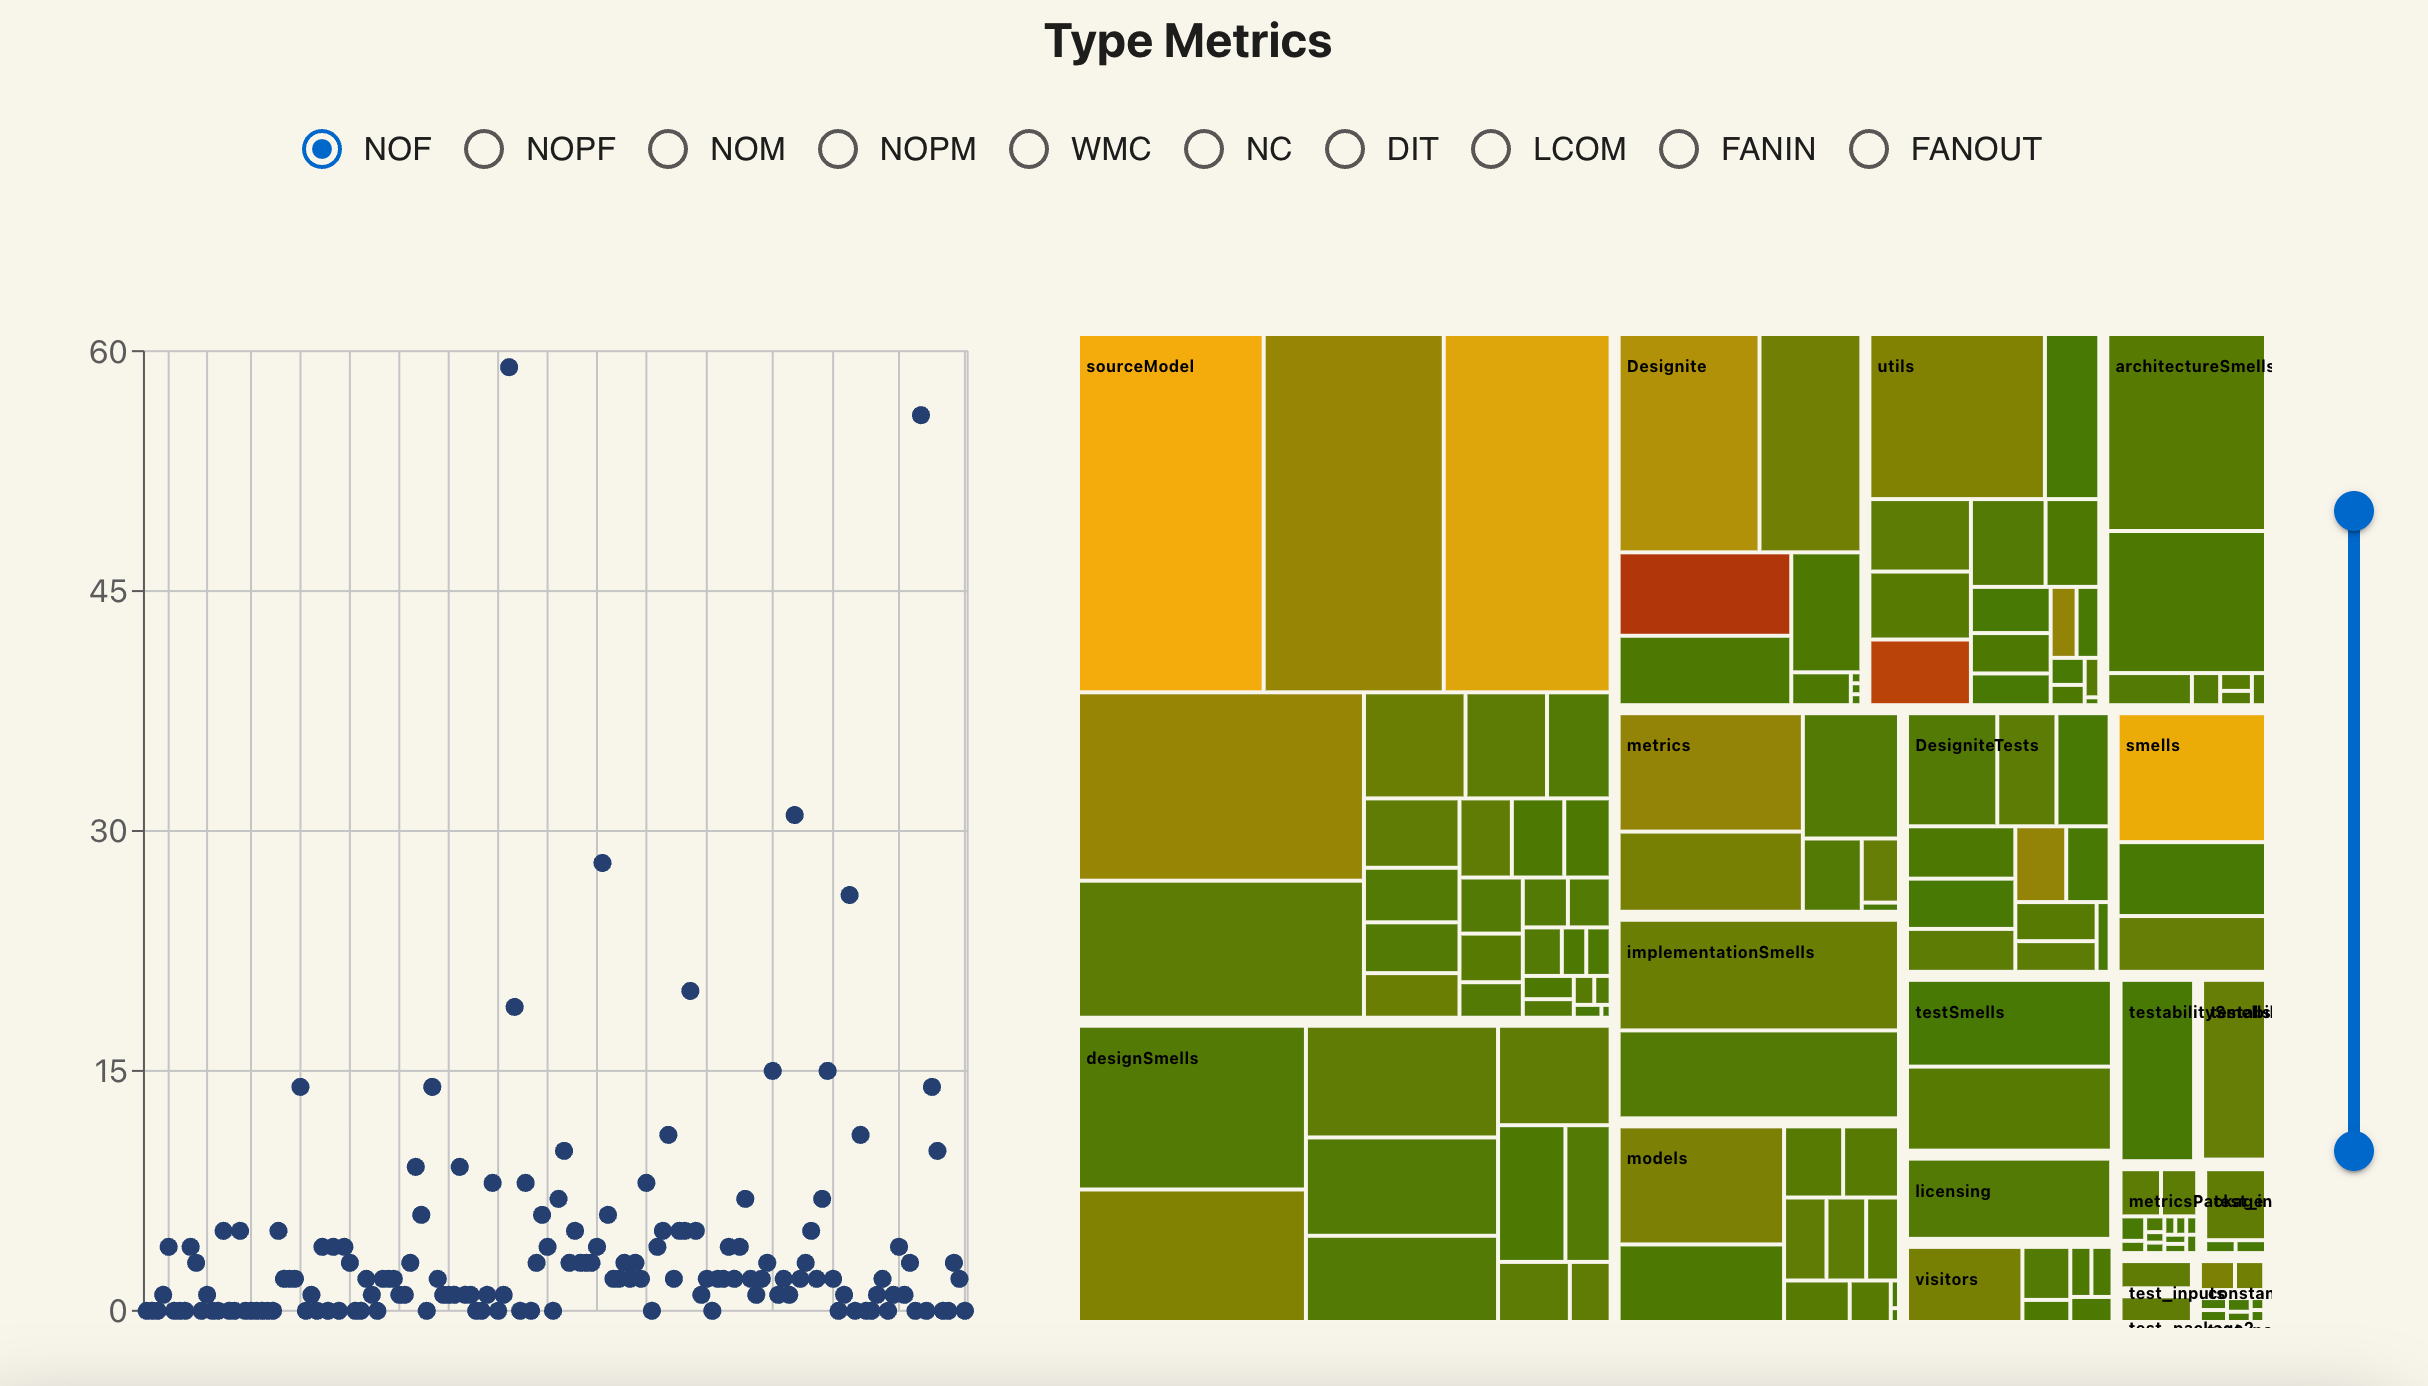
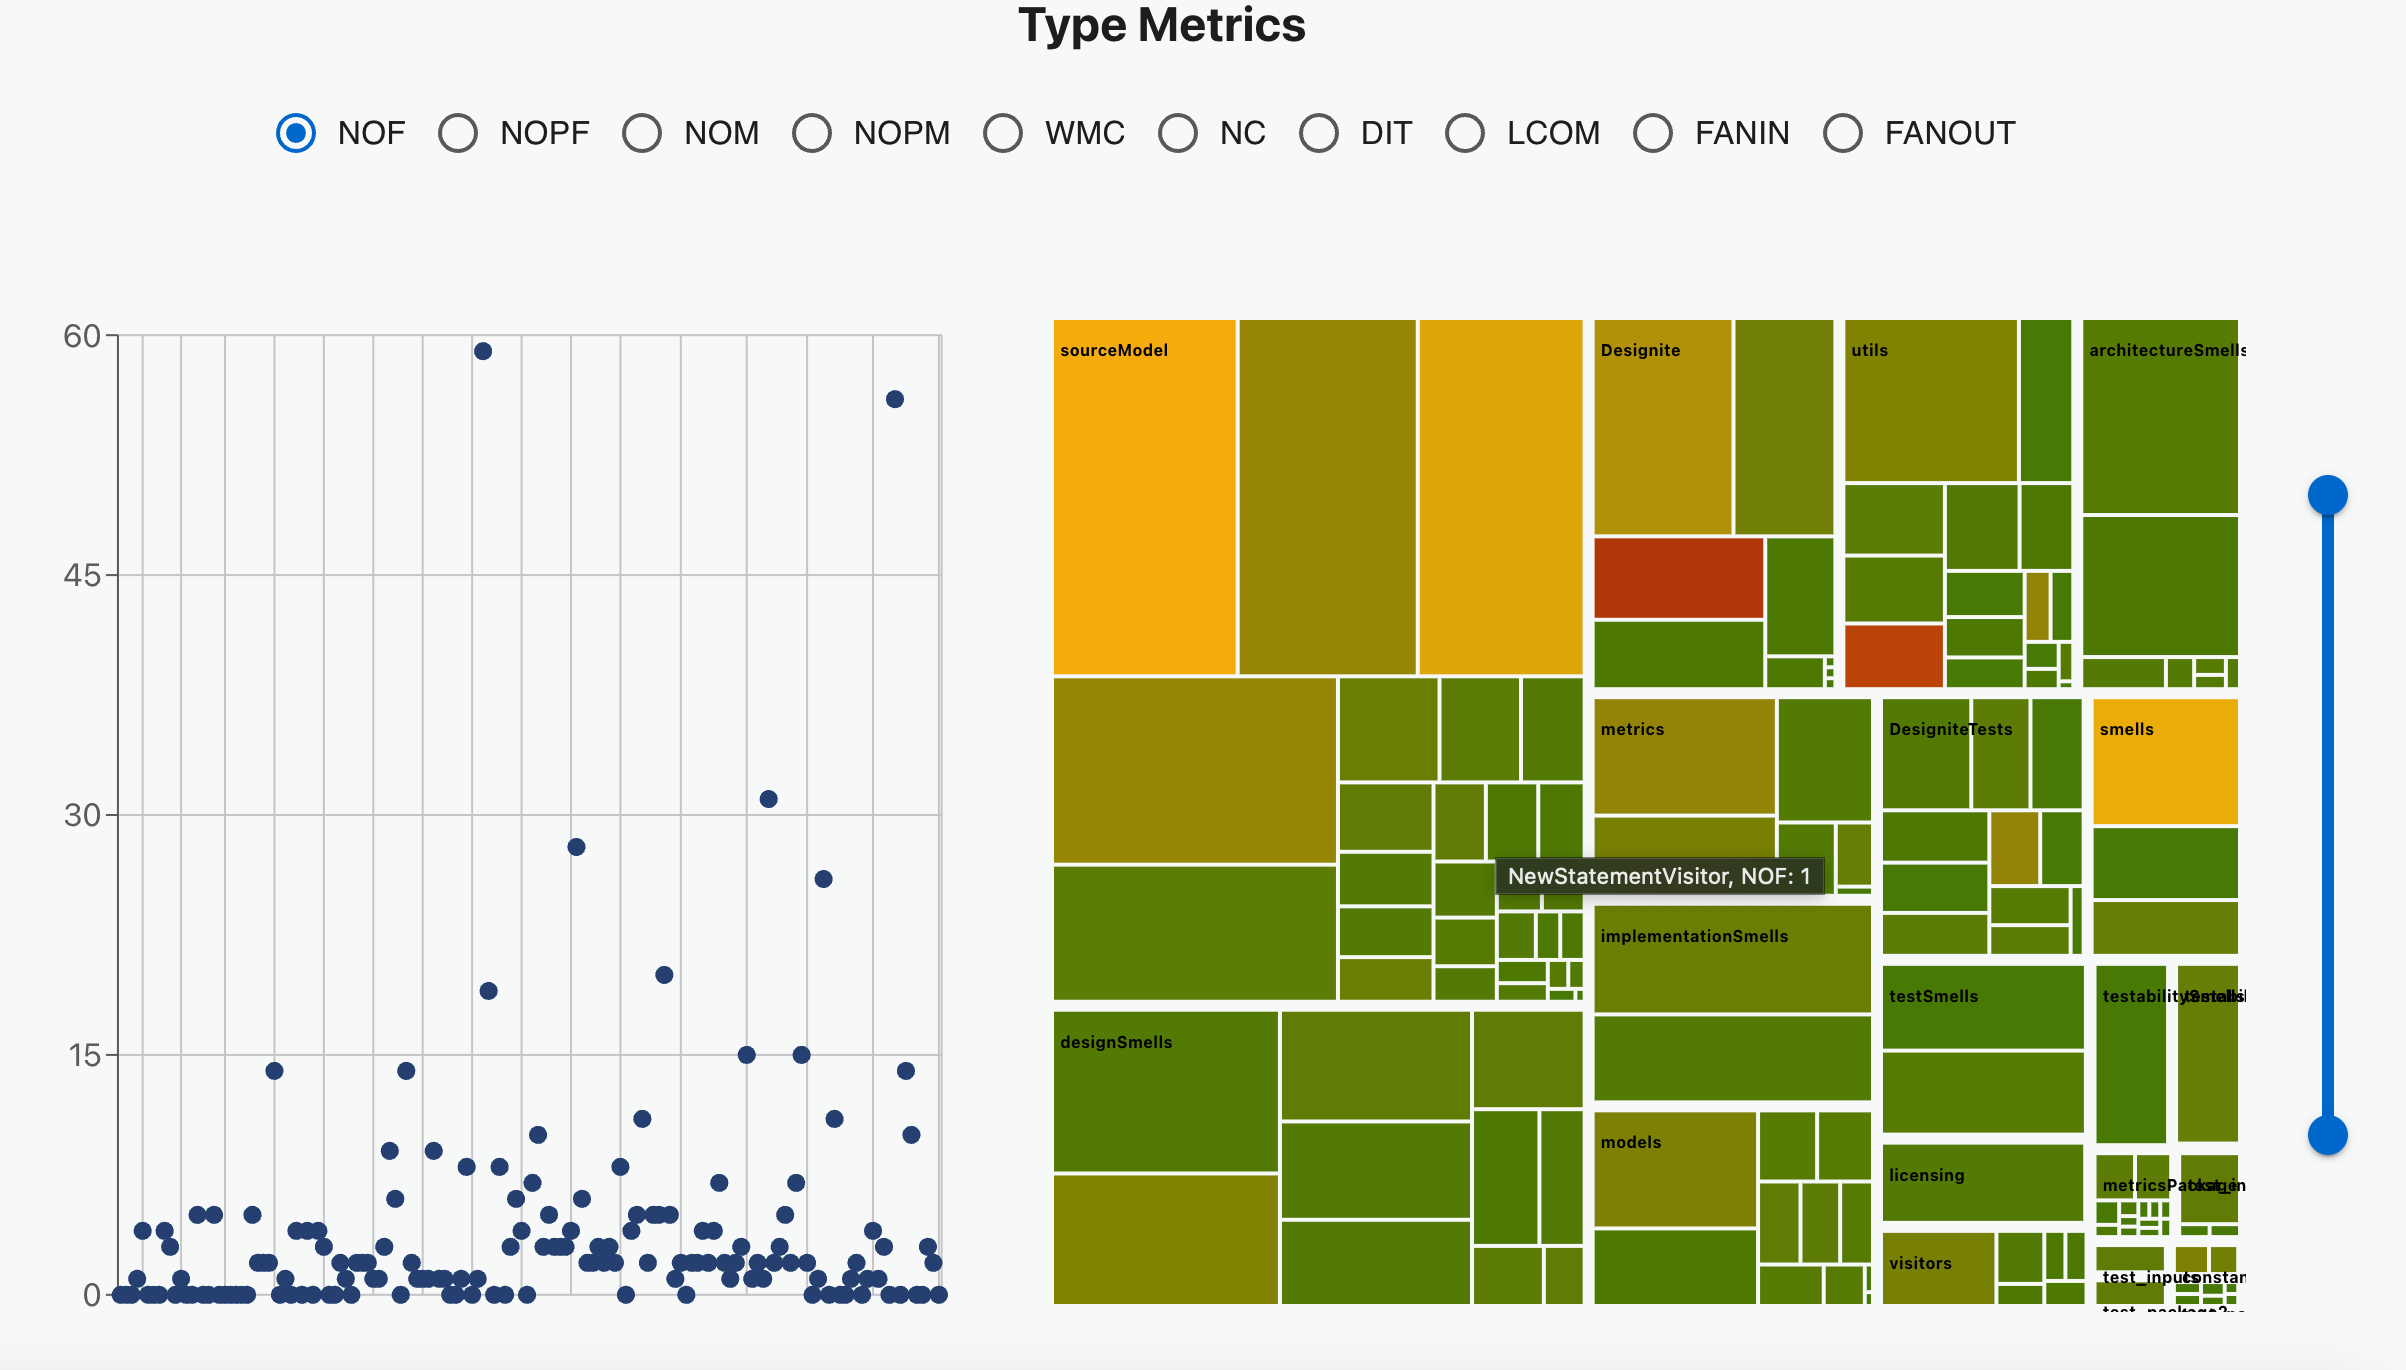
update background color and readme

diff --git a/smellsViz/frontend/src/components/PiChartViz/Details/index.jsx b/smellsViz/frontend/src/components/PiChartViz/Details/index.jsx
@@ -19,12 +19,12 @@ export default function Details({ data, sector, activeSmell }) {
       <TableContainer
         sx={{ maxWidth: 850, height: 500, maxHeight: 500 }}
         component={Paper}
-        style={{ backgroundColor: "#F9F6EE" }}>
+        style={{ backgroundColor: "#f8f9f9" }}>
         <Table
           size="small"
           stickyHeader
           aria-label="dynamic table"
-          sx={{ backgroundColor: "#F9F6EE" }}>
+          sx={{ backgroundColor: "#f8f9f9" }}>
           <TableHead>
             <TableRow>
               {columns.map((column, index) => (
@@ -64,12 +64,12 @@ export default function Details({ data, sector, activeSmell }) {
         <TableContainer
           sx={{ maxWidth: 850, height: 500, maxHeight: 500 }}
           component={Paper}
-          style={{ backgroundColor: "#F9F6EE" }}>
+          style={{ backgroundColor: "#f8f9f9" }}>
           <Table
             size="small"
             stickyHeader
             aria-label="dynamic table"
-            sx={{ backgroundColor: "#F9F6EE" }}>
+            sx={{ backgroundColor: "#f8f9f9" }}>
             <TableHead>
               <TableRow>
                 {columns.map((column, index) => (

diff --git a/trend/frontend/src/pages/Visualization/index.jsx b/trend/frontend/src/pages/Visualization/index.jsx
@@ -49,7 +49,7 @@ export default function Visualization() {
         <Paper
           variant="elevation"
           elevation={3}
-          sx={{ backgroundColor: "#F9F6EE" }}
+          sx={{ backgroundColor: "#f8f9f9" }}
           className="center pd-t">
           <div className="radio-buttons">
             <RadioButtonList
@@ -63,7 +63,7 @@ export default function Visualization() {
         </Paper>
       </div>
       <div className="metrics-container pd-t">
-        <Paper variant="elevation" elevation={3} sx={{ backgroundColor: "#F9F6EE" }}>
+        <Paper variant="elevation" elevation={3} sx={{ backgroundColor: "#f8f9f9" }}>
           <div className="radio-buttons">
             <RadioButtonList
               keys={metricKeys}

diff --git a/smellsViz/frontend/src/pages/Visualization/index.jsx b/smellsViz/frontend/src/pages/Visualization/index.jsx
@@ -67,14 +67,14 @@ export default function Visualization() {
         <Paper
           variant="elevation"
           elevation={3}
-          sx={{ backgroundColor: "#F9F6EE" }}
+          sx={{ backgroundColor: "#f8f9f9" }}
         >
           <SmellsGraph data={csvData} />
         </Paper>
         <Paper
           variant="elevation"
           elevation={3}
-          sx={{ backgroundColor: "#F9F6EE" }}
+          sx={{ backgroundColor: "#f8f9f9" }}
         >
           <div className="radio-buttons">
             <RadioButtonList

diff --git a/smellsViz/frontend/src/components/PiChartViz/index.jsx b/smellsViz/frontend/src/components/PiChartViz/index.jsx
@@ -28,7 +28,7 @@ export default function PiChartViz({ data }) {
   }
 
   return (
-    <Paper variant="elevation" elevation={3} sx={{ backgroundColor: "#F9F6EE" }}>
+    <Paper variant="elevation" elevation={3} sx={{ backgroundColor: "#f8f9f9" }}>
       <div className="header center">
         <h2 className="center pd-t">Smells</h2>
         <ToggleButtonGroup

diff --git a/smellsViz/frontend/src/index.css b/smellsViz/frontend/src/index.css
@@ -4,7 +4,7 @@ body {
   text-decoration: none;
   list-style: none;
   box-sizing: border-box;
-  background-color: #F9F6EE;
+  background-color: #f8f9f9 ;
   font-family: -apple-system, BlinkMacSystemFont, "Segoe UI", "Roboto", "Oxygen", "Ubuntu",
     "Cantarell", "Fira Sans", "Droid Sans", "Helvetica Neue", sans-serif;
   -webkit-font-smoothing: antialiased;

diff --git a/trend/frontend/src/index.css b/trend/frontend/src/index.css
@@ -4,7 +4,7 @@ body {
   text-decoration: none;
   list-style: none;
   box-sizing: border-box;
-  background-color: #F9F6EE;
+  background-color: #f8f9f9;
   font-family: -apple-system, BlinkMacSystemFont, "Segoe UI", "Roboto", "Oxygen", "Ubuntu",
     "Cantarell", "Fira Sans", "Droid Sans", "Helvetica Neue", sans-serif;
   -webkit-font-smoothing: antialiased;

diff --git a/README.md b/README.md
@@ -8,27 +8,20 @@ The project aims to develop a web application for visualizing code smells and co
 - Supports two modes: _smells_ for visualizing DesigniteJava's analysis of a commit (typically the latest commit), _trend_ for visualizing DesigniteJava's analysis of a set of commits of a Java repository.
 
 <img width="1002" alt="Overview" src="./docs/smells-overview.png">
+<img width="1002" alt="Metrics" src="./docs/metrics.png">
+<img width="1002" alt="Smells" src="./docs/smells.png">
+
 ## Usage
 
 Follow these steps to run the application using Docker:
 
 ### Prerequisites
 
-1. **Run DesigniteJava for Analysis Files:** Before proceeding, ensure that you have run DesigniteJava to analyze your Java projects and generate the required files. Store these files in your local device.
+1. **Run DesigniteJava for Analysis Files:** Before proceeding, ensure that you have run DesigniteJava to analyze your Java projects and generate the required files. Find more information about DesigniteJava and instructions to use the tool [here](https://designite-tools.com/products-dj).
 
-2. **Check Docker Installation:** Docker should be installed on your machine. You can check if Docker is installed by running the following command in your terminal:
+2. **Check Docker Installation:** Docker should be installed on your machine.
 
-   ```bash
-   docker --version
-   ```
-
-3. **Install Docker Desktop:** If Docker is not installed, download and install Docker Desktop for your operating system:
-
-   - For Mac: [Docker Desktop for Mac](https://docs.docker.com/desktop/mac/install/)
-   - For Windows: [Docker Desktop for Windows](https://docs.docker.com/desktop/windows/install/)
-   - For Linux: [Docker Desktop for Linux](https://docs.docker.com/desktop/install/linux-install/)
-
-4. Ensure that you have the necessary folders and files organized according to the type of analysis you intend to perform (e.g., smells or trend).
+3. Ensure that you have the necessary folders and files organized according to the type of analysis you intend to perform (e.g., smells or trend).
 
    - For smells analysis, the folder should contain the files generated by DesigniteJava.
 
@@ -42,22 +35,19 @@ Follow these steps to run the application using Docker:
 
    <img width="1031" alt="Screenshot 2024-04-12 at 12 40 38" src="https://github.com/SMART-Dal/smells-viz/assets/74357926/9649ca13-dcb7-4a45-a6e3-f1326da1988e">
 
-## Installation
+### Running the application with Docker
 
-1. Clone the repository: `git clone https://github.com/SMART-Dal/smells-viz.git`
-2. Navigate to the project directory: `cd smells-viz/smellsViz`
+1. Clone this repository and navigate to the project diretory.
 
-### Running the Application with Docker
+2. Navigate to the folder where the `docker-compose.yml` file is located.
 
-1. Open your terminal and navigate to the folder where the docker-compose.yml file is located.
-
-2. Run the following command in your terminal, replacing `/absolute_path/of/smells/folder` with the absolute path to your smells folder and selecting the appropriate `TYPE` from either "smells" or "trend":
+3. Run the following command in your terminal with appropriate folder path (that contains CSV files generated by DesigniteJava) with `TYPE="smells"`
 
    ```bash
-   FOLDER="/absolute_path/of/smells/folder" TYPE="smells" docker-compose up
+   FOLDER="/absolute/path/of/smells/folder" TYPE="smells" docker-compose up
    ```
 
-   For the "smells" type, ensure that the folder contains the files generated by DesigniteJava.
+   For visualizing the trend data, invoke the command with `TYPE="trend"`. The provide folder should contain a `commits.txt` file containing the names of the subfolders (of the provided folder path) in each line. It is to provide the order of analysis results corresponding to each commit (each subfolder contains analysis result corresponding to a commit). For an example, refer to this <a href="./docs/sample.png">image</a>.
 
    ```bash
    FOLDER="/absolute_path/of/trend/folder" TYPE="trend" docker-compose up
@@ -65,4 +55,4 @@ Follow these steps to run the application using Docker:
 
    For the "trend" type, ensure that the folder contains subfolders that are named after the commit hashes that need to be analyzed.
 
-3. Once the containers are up and running, open your web browser and go to [localhost:3000](http://localhost:3000) to access the application.
+4. Once the containers are up and running, open your web browser and go to [localhost:3000](http://localhost:3000) to access the application.
